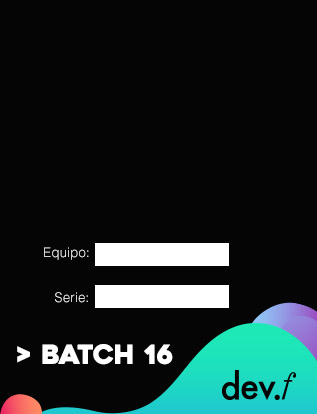
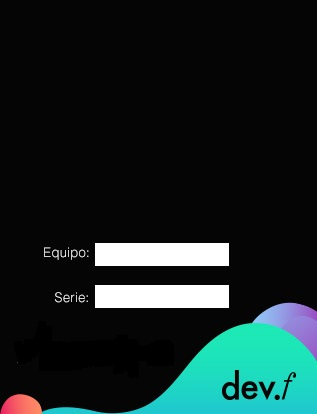
new form

diff --git a/generadorGafetes/app/assets/styles/styles.css b/generadorGafetes/app/assets/styles/styles.css
@@ -1,85 +1,106 @@
-    .gaf {
-        display: inline-block;
-        width: 330px;
-        height: 450px;
-        margin: 10px;
-    }
-    
-    @font-face {
-        font-family: 'HELVETICA-BOLD';
-        src: url(../fonts/HelveticaLTStd-Bold.otf);
-    }
-    
-    @font-face {
-        font-family: 'HELVETICA-LIGHT';
-        src: url(../fonts/HelveticaLTStd-Light.otf);
-    }
-    
-    .disenio {
-        position: absolute;
-        z-index: -1;
-    }
-    
-    .foto {
-        position: absolute;
-        object-fit: cover;
-        width: 120px;
-        height: 120px;
-        z-index: 0;
-        margin-left: 100px;
-        margin-top: 30px;
-    }
-    
-    .nombre {
-        position: inline;
-        z-index: 1;
-        /*margin-left: 3px;*/
-        margin-top: 140px;
-        font-size: 33px;
-        font-family: 'HELVETICA-BOLD';
-        color: white;
-        text-transform: uppercase;
-    }
-    
-    .apellido {
-        position: inline;
-        z-index: 1;
-        /*margin-top: 175px;*/
-        font-size: 25px;
-        font-family: 'HELVETICA-BOLD';
-        color: white;
-        /*margin-left: 3px;*/
-        text-transform: uppercase;
-    }
-    
-    .marca {
-        position: inline;
-        z-index: 1;
-        margin-left: 105px;
-        margin-top: 30px;
-        font-family: 'HELVETICA-LIGHT';
-        text-transform: uppercase;
-    }
-    
-    .serie {
-        position: inline;
-        z-index: 1;
-        margin-left: 103px;
-        margin-top: 23px;
-        font-family: 'HELVETICA-LIGHT';
-        text-transform: uppercase;
-    }
-    
-    .box {
-        text-align: center;
-        width: 300px;
-        border: 10px solid green;
-        font-family: 'HELVETICA-BOLD';
-        color: white;
-        padding: 25px;
-        margin: 25px;
-    }
+  body{
+    background: linear-gradient(120grad, #8ca1e3, #00e3bb);
+  }
 
-    .fullname{
-        text-align: center;
-    }
+  select {
+      display: inline-block !important;
+      width: 20% !important;
+      border: 1px solid black !important;
+  }
+  
+  .gaf {
+      display: inline-block;
+      width: 330px;
+      height: 450px;
+      margin: 10px;
+  }
+  
+  @font-face {
+      font-family: 'HELVETICA-BOLD';
+      src: url(../fonts/HelveticaLTStd-Bold.otf);
+  }
+  
+  @font-face {
+      font-family: 'HELVETICA-LIGHT';
+      src: url(../fonts/HelveticaLTStd-Light.otf);
+  }
+  
+  .disenio {
+      position: absolute;
+      z-index: -1;
+  }
+  
+  .foto {
+      position: absolute;
+      object-fit: cover;
+      width: 120px;
+      height: 120px;
+      z-index: 0;
+      margin-left: 100px;
+      margin-top: 30px;
+  }
+  
+  .nombre {
+      position: inline;
+      z-index: 1;
+      /*margin-left: 3px;*/
+      margin-top: 140px;
+      font-size: 33px;
+      font-family: 'HELVETICA-BOLD';
+      color: white;
+      text-transform: uppercase;
+  }
+  
+  .apellido {
+      position: inline;
+      z-index: 1;
+      /*margin-top: 175px;*/
+      font-size: 25px;
+      font-family: 'HELVETICA-BOLD';
+      color: white;
+      /*margin-left: 3px;*/
+      text-transform: uppercase;
+  }
+  
+  .marca {
+      position: inline;
+      z-index: 1;
+      margin-left: 105px;
+      margin-top: 30px;
+      font-family: 'HELVETICA-LIGHT';
+      text-transform: uppercase;
+  }
+  
+  .serie {
+      position: inline;
+      z-index: 1;
+      margin-left: 103px;
+      margin-top: 23px;
+      font-family: 'HELVETICA-LIGHT';
+      text-transform: uppercase;
+  }
+
+  .batch {
+    color: white;
+    position: inline;
+    z-index: 1;
+    font-size: 25px;
+    font-weight: bold;
+    margin-top: 35px;
+    font-family: 'HELVETICA-LIGHT';
+    text-transform: uppercase;
+}
+  
+  .box {
+      text-align: center;
+      width: 300px;
+      border: 10px solid green;
+      font-family: 'HELVETICA-BOLD';
+      color: white;
+      padding: 25px;
+      margin: 25px;
+  }
+  
+  .fullname {
+      text-align: center;
+  }

diff --git a/generadorGafetes/app/components/gaf.component.js b/generadorGafetes/app/components/gaf.component.js
@@ -1,4 +1,4 @@
-(function () {
+(function() {
     'use strict'
 
     var gafGen = {
@@ -23,6 +23,11 @@
             vm.folder;
             vm.search = dosearch;
 
+            vm.data = {
+                cinta: null,
+            };
+
+
             function dosearch() {
                 var listaAlumnos = [];
                 var listaFotos = [];
@@ -30,7 +35,7 @@
                 //
                 vm.apiData = gafApi.get({
                     dex: vm.dex
-                }).$promise.then(function (response) {
+                }).$promise.then(function(response) {
                     listaAlumnos = response.responses;
                     console.log(listaAlumnos);
                     if (listaAlumnos && listaFotos) {
@@ -43,7 +48,7 @@
                     q: "parents = '0B6XOavmaOXLAMGkzWFRFTTBMTUk'",
                     //maxResults: 10,
                     fields: 'items/title, items/id',
-                }).promise.then(function (response) {
+                }).promise.then(function(response) {
                     var patt = new RegExp("[1-9][0-9]{2}");
                     var files = response.data.items;
                     for (var i = 0; i < files.length; i++) {
@@ -52,7 +57,6 @@
                         // usar regex para sacar solo "123"
                         listaFotos[numero] = files[i].id;
                     }
-                    console.log(listaFotos);
                     if (listaAlumnos && listaFotos) {
                         dibujarGafetes(listaAlumnos, listaFotos);
                     }

diff --git a/generadorGafetes/app/components/gaf.component.html b/generadorGafetes/app/components/gaf.component.html
@@ -1,0 +1,32 @@
+<div class="container">
+    <div class="col s12 m7">
+        <div class="card horizontal">
+            <form class="container" ng-submit="$ctrl.search()">
+                <h5 class="center">Generador de Gafetes</h5>
+                <p>ID Spreadsheet</p>
+                <input class="col s12 m8" type="text" ng-model="$ctrl.dex">
+                <p>ID Folder</p>
+                <input class="col s12 m8" type="text" ng-model="">
+                <p>Sheet</p>
+                <input class="col s12 m8" type="text" ng-model="">
+                <p>Batch</p>
+                <input class="col s12 m8" type="text" ng-model="batch">
+                <button style="float: right" class="waves-effect blue darken-2 btn">Generar Gafetes</button>
+                <br><br><br>
+            </form>
+        </div>
+    </div>
+</div>
+
+<div class="gaf" id="nom" ng-repeat="student in $ctrl.student | filter:search">
+    <img src="/app/assets/img/gafete.jpg" alt="" width="330" height="450" class="disenio">
+    <img class="foto" src="https://drive.google.com/uc?export=view&id={{student.id}}" alt="" height="100">
+    <br>
+    <div class="fullname">
+        <h5 class="nombre">{{student.name}}</h5>
+        <h5 class="apellido">{{student.last_name}}</h5>
+    </div>
+    <p class="marca">{{student.marca}}</p>
+    <p class="serie">{{student.serie}}</p>
+    <div class="batch">>{{batch}}</div>
+</div>
